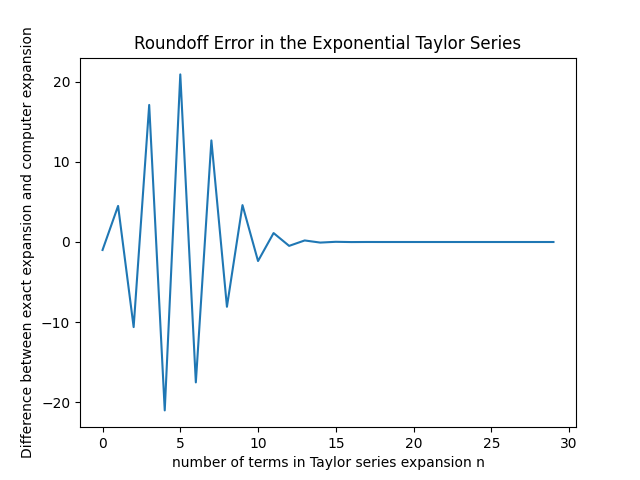
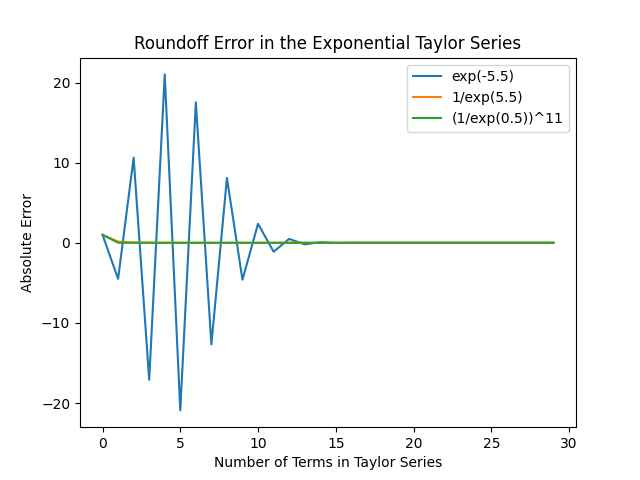
perfected plots P6

diff --git a/HW1/P6.py b/HW1/P6.py
@@ -1,60 +1,41 @@
 import numpy as np
+import math
 import matplotlib.pyplot as plt
 
 n = 30
 Taylor_machine = np.zeros(30)
 import numpy as np
 
-Taylor_exact = np.array([
-    1.0,
-    -4.5,
-    10.625,
-    -17.104166666666668,
-    21.023437499999996,
-    -20.916927083333338,
-    17.52840711805555,
-    -12.678641183035719,
-    8.08870452396453,
-    -4.602451185868954,
-    2.3776844545394624,
-    -1.112383365664746,
-    0.48723105192884963,
-    -0.18952889397613304,
-    0.07634108477225304,
-    -0.021144574102155186,
-    0.012366121135922642,
-    0.0015244256177209918,
-    0.0048371659149492735,
-    0.0038782147762779287,
-    0.004141926339412548,
-    0.004072859025258243,
-    0.00409012585379682,
-    0.004085996829581073,
-    0.004086943064297181,
-    0.004086734892659637,
-    0.004086778928967579,
-    0.004086769958608554,
-    0.004086771720643363,
-    0.004086771386464348
-], dtype=float)
-
+exact = np.ones(30) * math.exp(-5.5)
 
 
 def exponential(x):
   sum = 0
   for i in range(n):
-    sum = sum + x**i/np.math.factorial(i)
+    sum = sum + x**i/math.factorial(i)
     Taylor_machine[i] = sum
   return Taylor_machine
 
-
+plt.figure()
 plt.title("Roundoff Error in the Exponential Taylor Series")
-plt.xlabel("number of terms in Taylor series expansion n")
-plt.ylabel("Difference between exact expansion and computer expansion")
-plt.plot(np.arange(0,n), Taylor_machine - Taylor_exact)
+plt.xlabel("Number of Terms in Taylor Series")
+plt.ylabel("Absolute Error")
+plt.plot(np.arange(0,n), exponential(-5.5) - exact, label = 'exp(-5.5)')
+plt.plot(np.arange(0,n), (1/exponential(5.5)) - exact, label = '1/exp(5.5)')
+plt.plot(np.arange(0,n), (1/exponential(0.5))**11 - exact, label = '(1/exp(0.5))^11')
+plt.legend()
 plt.savefig('Rounding_Taylor')
 
-
+plt.figure()
+plt.title("Roundoff Error in the Exponential Taylor Series")
+plt.xlabel("Number of Terms in Taylor Series")
+plt.ylabel("Absolute Error")     
+plt.ylim(-0.01, 1)
+plt.plot(np.arange(0,n), exponential(-5.5) - exact, label = 'exp(-5.5)')
+plt.plot(np.arange(0,n), (1/exponential(5.5)) - exact, label = '1/exp(5.5)')
+plt.plot(np.arange(0,n), (1/exponential(0.5))**11 - exact, label = '(1/exp(0.5))^11')
+plt.legend()
+plt.savefig('Rounding_Taylor_Zoom')
 
 
 
